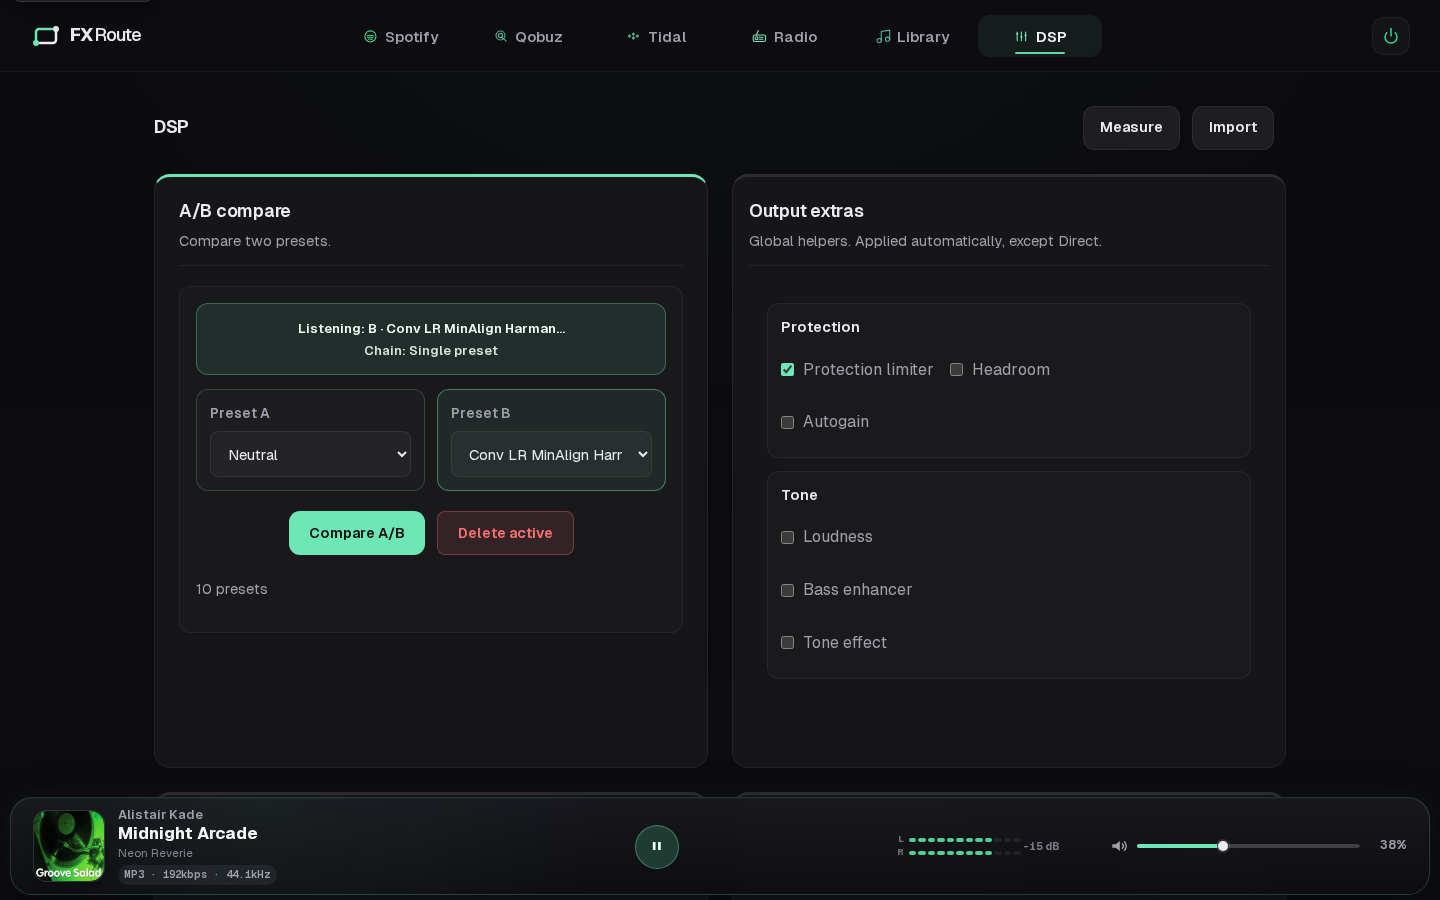
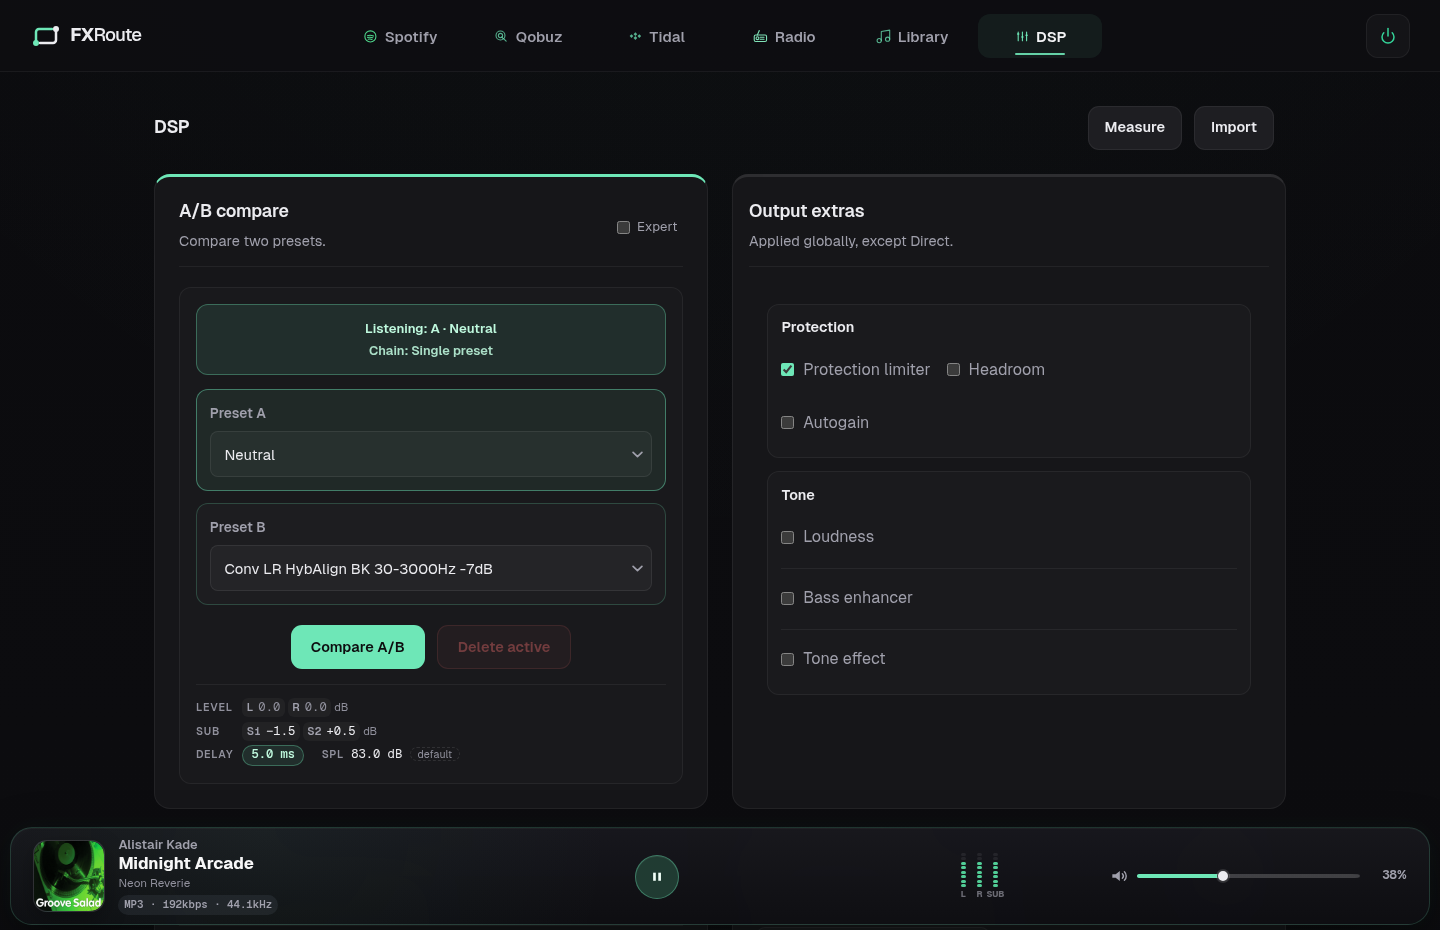
docs: refresh Beta 14 screenshots and illustrate current workflows

diff --git a/MANUAL.md b/MANUAL.md
@@ -4,6 +4,8 @@ FXRoute turns a small Linux audio PC into a browser-controlled music and DSP sys
 
 This is the user manual. The [README](README.md) covers the feature overview, installation, and the web demo; [docs/INSTALLER.md](docs/INSTALLER.md) covers the installer and streaming providers in depth.
 
+Screenshots show the Beta 14 frontend in the web demo. Playback, example presets, and measurements are simulated; they are not measurements of your room. Click an image to view it at full resolution.
+
 ## 1. What FXRoute is for
 
 FXRoute assumes one audio machine running a Linux user session with an active PipeWire stack (desktop, or headless with user services enabled).
@@ -62,6 +64,8 @@ The playback bar at the bottom is always visible:
 - click the current cover to open the detail card with metadata, "Recently played" where the source provides it, and the queue
 
 Source and app volumes (Spotify client, Qobuz app) stay separate from the FXRoute master volume. The compact source switcher next to the transport controls selects between app playback, an external input, Bluetooth input, and STDIN.
+
+[![Beta 14 main view: Radio with saved stations, Station Catalog, playback controls, and L/R/Sub output meters](media/screenshots/radio-overview.png)](media/screenshots/radio-overview.png)
 
 ## 4. Sources
 
@@ -205,6 +209,8 @@ Open **DSP** to shape the sound. The **Measure** button on this page opens the m
 
 FXRoute routes every source through one output-routing model. A **mode** decides which roles exist, **Output Routing** assigns those roles to hardware outputs, and the active assignments define the **topology** — which in turn defines the filter banks, the crossover card, the subwoofer card, and what a measurement sweep excites.
 
+[![DSP in Easy view: Global A/B presets, Output extras, and the level, sub, delay, and SPL summary](media/screenshots/dsp.png)](media/screenshots/dsp.png)
+
 ### 5.1 Presets, filter banks and A/B compare
 
 - **Presets** are selectable chains. **Direct** bypasses the whole processing chain including the global helpers; it belongs to the **Global** bank and is not offered in an area bank. **Neutral** is a clean chain that keeps the helpers active and is the default in every bank. Both are built in and cannot be deleted.
@@ -222,6 +228,10 @@ FXRoute routes every source through one output-routing model. A **mode** decides
 - **Create PEQ preset** builds paired left/right bands from scratch (a mono bank edits one set of **Mono bands**), up to 20 bands per side. Each band has a type — **Bell**, **Notch**, **Low shelf**, **High shelf**, **Low pass**, **High pass**, **Gain** (a level trim, shared by both sides), or **Delay** (0–500 ms) — plus frequency (20–20000 Hz), gain (±24 dB), and Q (0.1–100). The **EQ mode** selects IIR, FIR, FFT, or SPM. The preset is written into the selected filter bank.
 - **Q means the same in every bank.** PEQ bands follow the RBJ definition that REW and Equalizer APO use, so a preset renders with the same bandwidth in the Global bank as in a way or sub bank, and a REW import keeps the Q REW calculated.
 - **Way and sub banks** take PEQ and convolver presets only: at most one PEQ, in IIR mode, and one convolver per bank, and at most 32 biquad stages per output including the crossover filters. The FIR/FFT/SPM EQ modes and the output extras belong to the Global bank.
+
+[![Import filter into Surround Global: Side speaker group selected, stereo file and separate Left/Right IR or REW inputs, and preset naming](media/screenshots/preset-import.png)](media/screenshots/preset-import.png)
+
+*The Target line and speaker chips identify the group that receives the imported preset.*
 
 ### 5.2 Output extras
 
@@ -273,6 +283,13 @@ An incomplete routing is saved but not activated; the interface says so instead 
 
 **The sub configuration is derived, not selected.** The routed sub roles alone decide it, and the Subwoofer card badge names it: one sub role is a **Mono sub**, two distinct roles are **Dual-mono subs**, and the pair Sub L + Sub R is **Stereo subs** (Surround only offers Sub 1 and Sub 2, so it stays a Mono sub or Dual-mono subs). Older FXRoute versions and parts of the interface still call these *2.1*, *2.2* and *2.2 Stereo Bass*; those are labels for the same three derived layouts, not modes you can pick.
 
+<p align="center">
+  <a href="media/screenshots/output-routing.png"><img src="media/screenshots/output-routing.png" width="48%" alt="Stereo + Sub output routing: Crossover On, Low/High L/R ways and Sub 1/Sub 2 on an 18-output interface"></a>
+  <a href="media/screenshots/surround-routing.png"><img src="media/screenshots/surround-routing.png" width="48%" alt="Surround output routing: front crossover ways, Center, Side, Rear and two subs, with LFE routed to Sub 1/Sub 2"></a>
+</p>
+
+*Left: Stereo + Sub. Right: Surround. Each mode keeps its own assignments; Crossover remains an independent switch.*
+
 ### 5.4 Crossover and speaker ways
 
 The **Crossover / Speaker** card on the DSP page appears when Crossover is On and at least one speaker way is routed. The number of ways (2, 3, or 4) is derived from the routing, not chosen: each side must carry Low/High, Low/Mid/High, or Low/Low-Mid/Mid/High, and both sides must match.
@@ -287,6 +304,8 @@ The **Crossover / Speaker** card on the DSP page appears when Crossover is On an
 - The card header summarizes the system, for example `3-Way Stereo System · Sub HPF 80 Hz · High-pass off`.
 - **Link L/R** in this card is a UI convenience: it merges the tabs and copies the crossover filter values to the mirrored side. Way trim (level, align, polarity) always stays per side.
 
+[![Crossover / Speaker: left Low way, response preview, sub-owned 80 Hz high-pass, 3 kHz low-pass, and per-way trim](media/screenshots/crossover.png)](media/screenshots/crossover.png)
+
 ### 5.5 Subwoofers
 
 The **Subwoofer** card appears on the DSP page when at least one sub role is routed. Its header shows the routed configuration (`Crossover 80 Hz · LR24 · Main HPF on`, or the two sides separately for an unlinked stereo pair) and the derived badge (`Mono sub`, `Dual-mono subs`, `Stereo subs`).
@@ -300,6 +319,8 @@ In **Surround** the card's **Global** group becomes the speaker groups **Front L
 - A **Mono sub**, a **Dual-mono** pair, and a **linked stereo pair** all share one crossover, so their subs cannot drift apart. Only a true Sub L + Sub R pair offers **Link L/R**; with the link off the card shows a `Sub L` / `Sub R` tab pair and one side at a time, each with its own crossover frequency, type, and slope. The **Main highpass** switch is shared in every layout. In Surround the link switch is labelled **Link groups** and links the speaker groups instead; Sub 1 and Sub 2 always share the same mono bass bus.
 - Mono and dual-mono subs are fed by both channels summed at half gain, so they are excited from either side; in Surround both sub roles receive the same summed mono bass bus; a true Sub L + Sub R pair is side-fed. A dual-mono or mono sub is also a **mono** filter bank: paired PEQ bands must match, and a convolver impulse response must be mono.
 - Subwoofer routing needs a selected multichannel output with at least three channels; subs summed from both sides need a channel count that covers the mode.
+
+[![Surround Subwoofer: Front, Center, Side and Rear group tabs with Link groups off, crossover preview, and Sub 1/Sub 2 level, alignment and polarity](media/screenshots/subwoofer.png)](media/screenshots/subwoofer.png)
 
 ### 5.6 Surround output mode
 
@@ -316,6 +337,13 @@ In **Surround** the card's **Global** group becomes the speaker groups **Front L
 
 Surround introduces no separate DSP engine or optimizer: it uses the same banks, output processing, subwoofer paths, and measurement tools. **Speaker Auto Alignment** stays unavailable because the Surround Global bank is group-scoped, while aligning a whole speaker needs one bank for all of its ways (section 6.5). See [Basic Surround path](docs/surround.md) for the ingress implementation, build requirements, and verification coverage.
 
+<p align="center">
+  <a href="media/screenshots/surround-easy.png"><img src="media/screenshots/surround-easy.png" width="48%" alt="Surround Easy A/B: Global Front, Center, Side and Rear preset pickers in each slot; Side room PEQ active in A, Neutral in B"></a>
+  <a href="media/screenshots/surround-expert.png"><img src="media/screenshots/surround-expert.png" width="48%" alt="Surround Expert A/B: Ind. Banks selected, per-bank A/B assignments, and the separate Global status chip"></a>
+</p>
+
+*Easy (left) compares the Global speaker-group selections. Expert (right) exposes the bank selector; Ind. Banks lists the area-bank assignments in both slots and leaves Global separate.*
+
 ### 5.7 Sample rate
 
 **Sample Rate** defaults to **Auto**: the PipeWire graph and DAC follow the effective playback rate of the current source (local files, radio, TIDAL, Spotify, Qobuz, Bluetooth can differ). A source rate the selected output does not support plays at the highest supported rate below it (for example 96 kHz on a 48 kHz-only card, 384 kHz on a 192 kHz device), and PipeWire resamples the source; supported rates always stay native. A fixed rate forces one clock; FXRoute rejects rates the selected output does not support and caps processing at 384 kHz. Switching policy automatically restores the track and playing or paused state after the audio path changes; seekable tracks retain their position and radio reconnects live. Use Auto when sources with different native rates play together; use a fixed rate when the DAC, DSP chain, or external hardware needs one clock.
@@ -328,7 +356,9 @@ Some USB interfaces offer fewer hardware channels at higher rates. For known pro
 
 Open **Measure** on the DSP page. The assistant plays sweeps through the active DSP chain, records the response from a host microphone, and turns saved measurements into PEQ or FIR/convolver corrections. A microphone input is selected in **Setup**.
 
-The workflow column holds: **Measurements** (Setup, Start Sweep → Run Single Sweep / Start LR Repeat / Advanced), **Subwoofer** (Auto Sub Optimize, only when subs are routed), **Speaker Auto Alignment** (only for a clean 2-, 3-, or 4-way crossover), and **Calibration** (AV Sync, SPL Calibration, Level Matching, and bank-dependent Polarity Check). Only one measurement runs at a time; while Auto Sub Optimize or a sweep is running, the competing start controls are refused rather than queued silently.
+The workflow panel holds: **Measurements** (Setup, Start Sweep → Run Single Sweep / Start LR Repeat / Advanced), **Subwoofer** (Auto Sub Optimize, only when subs are routed), **Speaker Auto Alignment** (only for a clean 2-, 3-, or 4-way crossover), and **Calibration** (AV Sync, SPL Calibration, Level Matching, and bank-dependent Polarity Check). Only one measurement runs at a time; while Auto Sub Optimize or a sweep is running, the competing start controls are refused rather than queued silently.
+
+[![Measurement assistant in Stereo + Sub: sweep, subwoofer, speaker alignment and calibration workflows above a completed L/R Repeat graph](media/screenshots/measurement.png)](media/screenshots/measurement.png)
 
 ### 6.1 Setup: microphone, electrical reference, and files
 
@@ -379,6 +409,8 @@ The wizard follows the selected **Measuring area**, so the step list and the mod
 In **Surround Global** the open Advanced dialog shows a speaker row (`Front`, `Center`, `Side`, `Rear`, `All`) above the first step, so the pair or the single Center can be chosen without leaving it. A group chip sets the same speaker selection as the chips in the sweep menu; the room view places the speakers for the group (front wall, side walls, behind the seat). **All** measures every routed group by microphone position instead of group by group: first each group's nearfield direct response, one start per speaker (two for a pair, one for Center); then a single start at the main listening position that measures every routed group in turn — each group's captures and its subwoofer alignment check, the mono Center without one; then a single start at the left listening position for every group; then one at the right. The header names the group of the current step and its position in the run, and the first step of each listening position says that all speakers are measured automatically. A failed subwoofer alignment check is repeated while the microphone is still at the main position, before the run moves on; a cancelled or failed position resumes with the speakers still missing there. The speaker row is locked once the first measurement is taken; close and reopen the dialog to change it.
 
 The room view shows the subwoofers only for a run that measures them: the whole-system Global area, a Surround group (its target keeps the subs audible) and a subwoofer bank; an individual speaker bank mutes every sub and shows none.
+
+[![Advanced room diagram for Surround Side L/R + Sub: side speakers, both subs, microphone and listening positions, group selector, and the first direct-response step](media/screenshots/room-diagram.png)](media/screenshots/room-diagram.png)
 
 When subwoofer routing is active, a stereo area ends with a **Subwoofer alignment check** that returns the microphone to the main listening position and measures the summed L+R response with the subs in circuit — in the **All** series inside the main-position start of its group. A Surround group keeps the subs audible for it; an individual pair bank mutes them, so its check covers only the bank's own L+R sum. The wizard label reflects the derived sub layout (`Stereo`, `2.1`, `2.2 Mono`, `2.2 Stereo`).
 
@@ -462,6 +494,10 @@ New correction IRs made by FXRoute carry per-channel timing metadata, separating
   The aligned modes need separate saved L/R measurements with valid direct-arrival timing. FXRoute blocks filter creation when the measured L/R timing offset is unsafe; the graph shows the arrival relation (for example `L arrives 5.27 ms later than R`).
 
   **Create** (PEQ and Convolver) commits a preset only into the bank its source measurements were taken for: their frozen mode, bank and speaker group must be the ones the preset is committed into, and their measured roles must be the roles that bank plays on the selected outputs. Sample rate, processing, output device and reference tap are not compared. An Ind. Banks result can be saved and inspected but never committed, and a result without a frozen target (Auto Sub results carry none by design) is refused and has to be measured again.
+
+[![PEQ assistant: a Bell filter at 82 Hz, -3 dB and Q 3, staged for Left and Right, ready to create a named preset](media/screenshots/peq.png)](media/screenshots/peq.png)
+
+[![Convolver assistant: target curve, correction range, boost/cut limits, Dip Guard, phase type, taps, and a staged Left/Right FIR preset](media/screenshots/convolver.png)](media/screenshots/convolver.png)
 
 ### 6.9 Saved runs
 

diff --git a/docs/surround.md b/docs/surround.md
@@ -16,6 +16,13 @@ Surround is an output mode in the existing Output System. The mode is remembered
 - Level Matching stores one mode-wide calibration family over logical speakers; crossover ways stay together. Individual speaker banks keep staged matching against the Front reference, while Global/Ind. Banks/Sub can measure all speaker groups in one run. Subs remain owned by Auto Sub Optimize. Polarity Check diagnoses wiring only in individual speaker banks, never Global/Ind. Banks/Sub.
 - Sub 1/Sub 2 use the existing mono/dual-mono adjustment and optimization paths. No parallel Surround optimizer or DSP engine is created.
 
+<p align="center">
+  <a href="../media/screenshots/surround-easy.png"><img src="../media/screenshots/surround-easy.png" width="48%" alt="Beta 14 Surround Global in Easy view: separate Front, Center, Side and Rear presets for A and B"></a>
+  <a href="../media/screenshots/surround-expert.png"><img src="../media/screenshots/surround-expert.png" width="48%" alt="Beta 14 Surround in Expert view: Ind. Banks A/B assignments and separate Global status"></a>
+</p>
+
+*Beta 14 web-demo examples, with simulated presets. Easy compares the Global group selections; Expert also exposes the area banks and Ind. Banks. See the [manual](../MANUAL.md#56-surround-output-mode) for the controls, [output routing](../media/screenshots/surround-routing.png) for the role assignments, and the [room diagram](../media/screenshots/room-diagram.png) for a group-scoped Advanced measurement.*
+
 ## Digital ingress
 
 The selected capture pair feeds `fxroute_surround_input` before stereo ingress, gain, remix or SRC in all three output modes. Detection uses samples, not a sound-card name or a manual digital/analog flag. Its realtime callback only exchanges bounded PCM/carrier buffers; a separate worker recognizes IEC-61937, validates/deframes AC-3 and DTS Core, decodes with libavcodec and projects actual decoder positions onto the shared bus. Split stereo pairs can feed the two carrier ports from different capture nodes. Explicit custom PCM mappings retain their direct routing.

diff --git a/README.md b/README.md
@@ -17,10 +17,12 @@ Try the interface without any audio hardware, directly in your browser: https://
 The demo is the real FXRoute frontend — same UI — with simulated backend state for playback, DSP, radio, and measurement, so every view is explorable in a normal browser.
 
 <p align="center">
-  <img src="media/screenshots/radio-overview.png" width="32%" alt="FXRoute Radio tab: My Stations above the curated Station Catalog, a station playing in the footer">
-  <img src="media/screenshots/dsp.png" width="32%" alt="FXRoute DSP tab: A/B compare on the Neutral and convolver presets, and the Output extras card">
-  <img src="media/screenshots/measurement.png" width="32%" alt="FXRoute measurement assistant: the measurement workflows on the left, two saved sweeps against the neutral target on the graph">
+  <a href="media/screenshots/radio-overview.png"><img src="media/screenshots/radio-overview.png" width="32%" alt="Beta 14 Radio: My Stations, Station Catalog, and the playback bar with L/R/Sub meters"></a>
+  <a href="media/screenshots/dsp.png"><img src="media/screenshots/dsp.png" width="32%" alt="Beta 14 DSP: Easy A/B compare with Neutral and a convolver preset, calibration summary, and Output extras"></a>
+  <a href="media/screenshots/measurement-graph.png"><img src="media/screenshots/measurement-graph.png" width="32%" alt="Beta 14 measurement graph: completed L/R Repeat, Neutral target, 1/6-octave smoothing, and Save current"></a>
 </p>
+
+Beta 14 demo screenshots (simulated playback and measurements). Click an image for full resolution; the [manual](MANUAL.md) also illustrates routing, Surround Easy/Expert, PEQ, Convolver, and the room diagram.
 
 ## What FXRoute does
 
